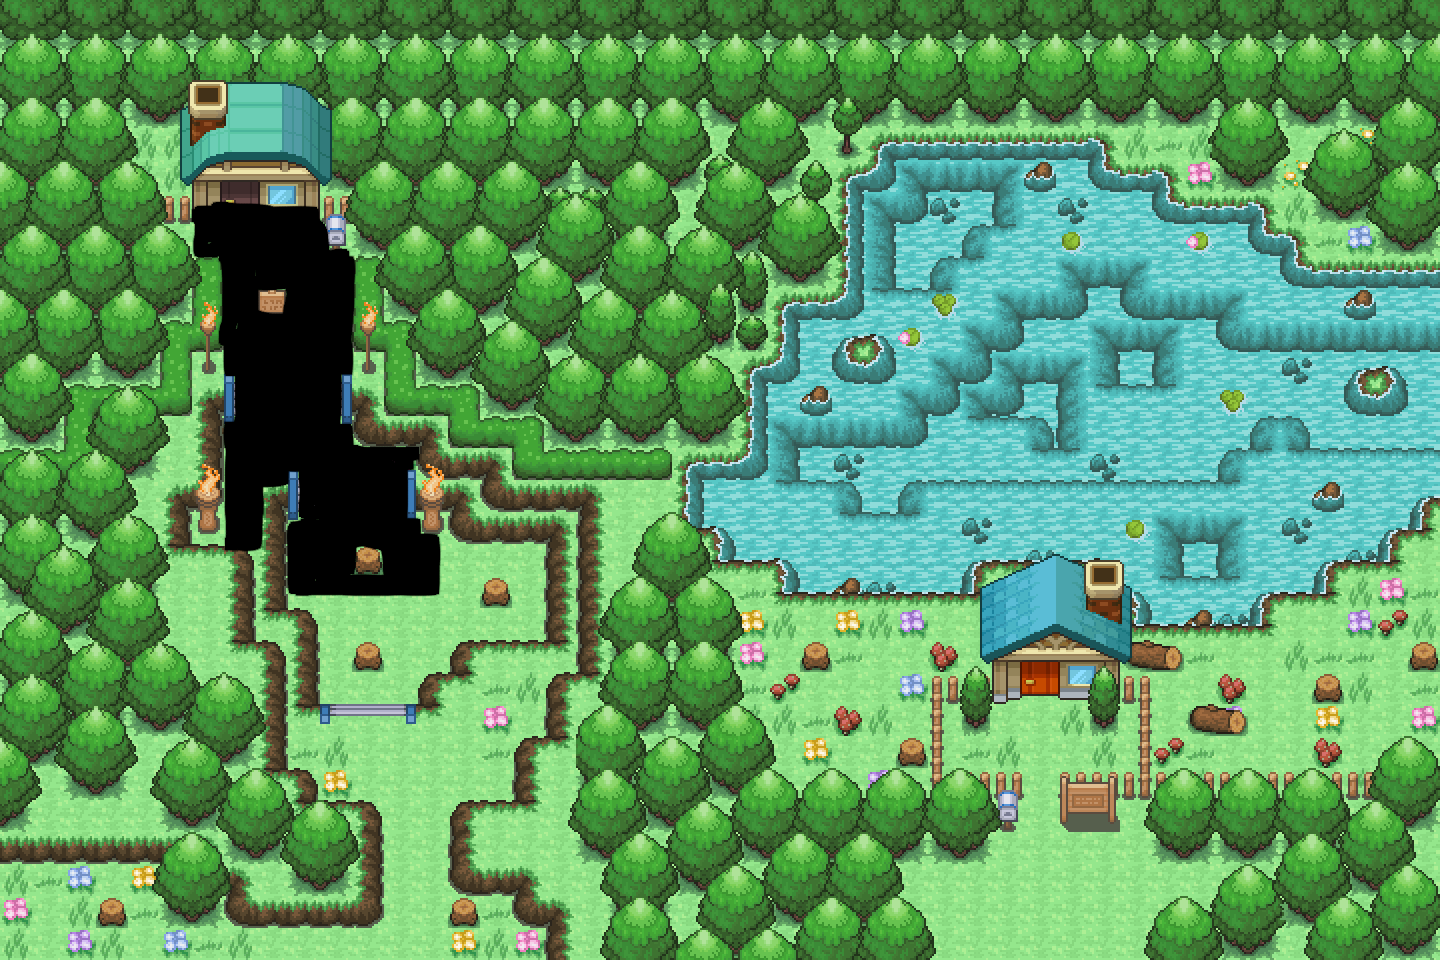
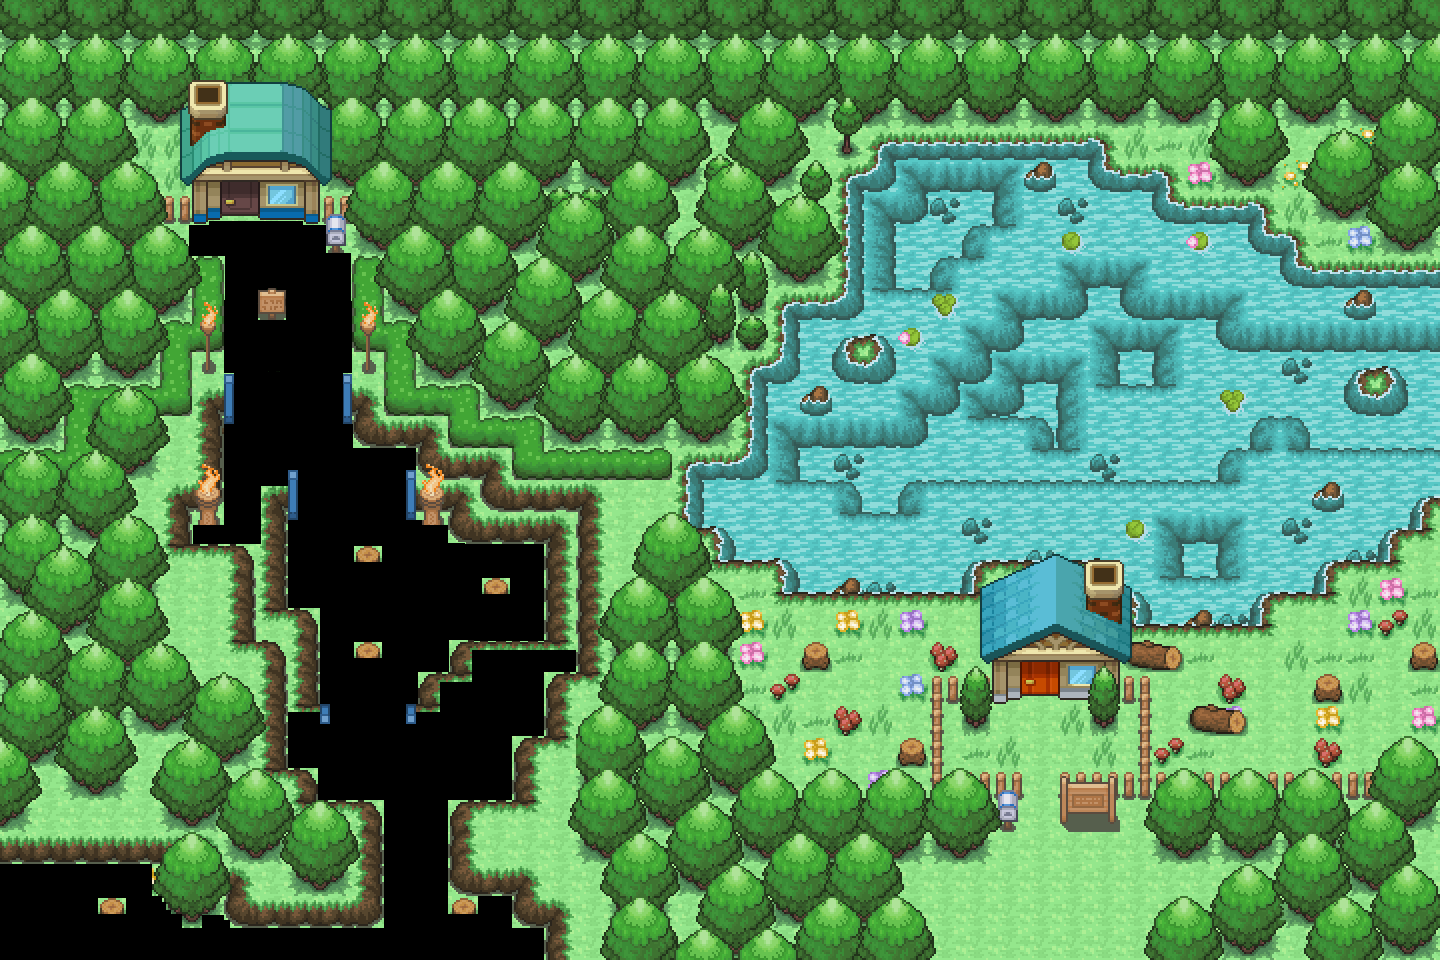
collisions

diff --git a/Code_dresseur/fusion.py b/Code_dresseur/fusion.py
@@ -37,25 +37,30 @@ class Window(QMainWindow):
         sprite = QPixmap(self.sprites_individuels[4])
         
         self.joueur = QLabel(self)
-        self.joueur.setGeometry(self.vision//2 + 5, self.vision//2 +10, self.largeur_sprite, self.hauteur_sprite)
+        self.joueur.setGeometry(self.vision//2 + 20, self.vision//2 +30, self.largeur_sprite, self.hauteur_sprite)
         self.joueur.setPixmap(sprite)
         
         self.speed = 5
             
     def carte(self):
         pixmap = QPixmap("C:/Users/dell/OneDrive/Bureau/Projet Pokémon/RATHANA-BOUCHART-KACZOR/documents/images/map_collisions.png")
-        self.fond = QLabel(self)
-        self.fond.setPixmap(pixmap)
-        self.fond.setGeometry(0, 0, pixmap.width(), pixmap.height())
+        self.fond_collisions = QLabel(self)
+        self.fond_collisions.setPixmap(pixmap)
+        self.fond_collisions.setGeometry(0, 0, pixmap.width(), pixmap.height())
+
+        pixmap = QPixmap("C:/Users/dell/OneDrive/Bureau/Projet Pokémon/RATHANA-BOUCHART-KACZOR/documents/images/map.png")
+        self.fond_visible = QLabel(self)
+        self.fond_visible.setPixmap(pixmap)
+        self.fond_visible.setGeometry(0, 0, pixmap.width(), pixmap.height())
     
     def keyPressEvent(self, event):
-        x = self.fond.x()
-        y = self.fond.y()
-        x_joueur = self.joueur.x() - self.fond.x()
-        y_joueur = self.joueur.y() - self.fond.y() 
+        x = self.fond_collisions.x()
+        y = self.fond_collisions.y()
+        x_joueur = self.joueur.x() - self.fond_collisions.x()
+        y_joueur = self.joueur.y() - self.fond_collisions.y() 
 
         if event.key() == Qt.Key_Up :
-            couleur_pixel = [self.fond.pixmap().toImage().pixelColor(x_joueur + i , y_joueur - self.speed) for i in range (0,self.largeur_sprite)]
+            couleur_pixel = [self.fond_collisions.pixmap().toImage().pixelColor(x_joueur + i , y_joueur ) for i in range (0,self.largeur_sprite)]
             for i in range(self.largeur_sprite):
                 if (couleur_pixel[i] != Qt.black) :
                     self.music_player.bruit_bump()
@@ -63,7 +68,8 @@ class Window(QMainWindow):
                     self.joueur.setPixmap(self.apparences_joueur[self.apparence_actuelle])
                     break
                 elif (couleur_pixel[i] == Qt.black) and (i == self.largeur_sprite - 1) :
-                    self.fond.move(x, y + self.speed)
+                    self.fond_collisions.move(x, y + self.speed)
+                    self.fond_visible.move(x, y + self.speed)
                     if (self.apparence_actuelle == 2) or (self.apparence_actuelle == 6) or (self.apparence_actuelle == 10) :
                         self.changer_apparence()
                     else : 
@@ -71,7 +77,7 @@ class Window(QMainWindow):
                     self.joueur.setPixmap(self.apparences_joueur[self.apparence_actuelle])
 
         if event.key() == Qt.Key_Down :
-            couleur_pixel = [self.fond.pixmap().toImage().pixelColor(x_joueur + i , y_joueur + self.hauteur_sprite + self.speed) for i in range (0,self.largeur_sprite)]
+            couleur_pixel = [self.fond_collisions.pixmap().toImage().pixelColor(x_joueur + i , y_joueur + self.hauteur_sprite + self.speed) for i in range (0,self.largeur_sprite)]
             for i in range(self.largeur_sprite):
                 if (couleur_pixel[i] != Qt.black) :
                     self.music_player.bruit_bump()
@@ -79,7 +85,8 @@ class Window(QMainWindow):
                     self.joueur.setPixmap(self.apparences_joueur[self.apparence_actuelle])
                     break
                 elif (couleur_pixel[i] == Qt.black) and (i == self.largeur_sprite - 1) :
-                    self.fond.move(x, y - self.speed)
+                    self.fond_collisions.move(x, y - self.speed)
+                    self.fond_visible.move(x, y - self.speed)
                     if (self.apparence_actuelle == 0) or (self.apparence_actuelle == 4) or (self.apparence_actuelle == 8) :
                         self.changer_apparence()
                     else : 
@@ -87,7 +94,7 @@ class Window(QMainWindow):
                     self.joueur.setPixmap(self.apparences_joueur[self.apparence_actuelle])
 
         if event.key() == Qt.Key_Left :
-            couleur_pixel = [self.fond.pixmap().toImage().pixelColor(x_joueur - self.speed, y_joueur + i) for i in range (0, self.hauteur_sprite)]
+            couleur_pixel = [self.fond_collisions.pixmap().toImage().pixelColor(x_joueur - self.speed, y_joueur + i) for i in range (0, self.hauteur_sprite)]
             for i in range(self.hauteur_sprite) :
                 if (couleur_pixel[i] != Qt.black) :
                     self.music_player.bruit_bump()
@@ -95,7 +102,8 @@ class Window(QMainWindow):
                     self.joueur.setPixmap(self.apparences_joueur[self.apparence_actuelle])
                     break
                 elif (couleur_pixel[i] == Qt.black) and (i == self.hauteur_sprite - 1):
-                    self.fond.move(x + self.speed, y)
+                    self.fond_collisions.move(x + self.speed, y)
+                    self.fond_visible.move(x + self.speed, y)
                     if (self.apparence_actuelle == 3) or (self.apparence_actuelle == 7) or (self.apparence_actuelle == 11) :
                         self.changer_apparence()
                     else : 
@@ -103,7 +111,7 @@ class Window(QMainWindow):
                     self.joueur.setPixmap(self.apparences_joueur[self.apparence_actuelle])
     
         if event.key() == Qt.Key_Right :
-            couleur_pixel = [self.fond.pixmap().toImage().pixelColor(x_joueur + self.speed + self.largeur_sprite, y_joueur + i) for i in range (0, self.hauteur_sprite)]
+            couleur_pixel = [self.fond_collisions.pixmap().toImage().pixelColor(x_joueur + self.speed + self.largeur_sprite, y_joueur + i) for i in range (0, self.hauteur_sprite)]
             for i in range(self.hauteur_sprite):
                 if (couleur_pixel[i] != Qt.black) :
                     self.music_player.bruit_bump()
@@ -111,7 +119,8 @@ class Window(QMainWindow):
                     self.joueur.setPixmap(self.apparences_joueur[self.apparence_actuelle])
                     break
                 elif (couleur_pixel[i] == Qt.black) and (i == self.hauteur_sprite - 1):
-                    self.fond.move(x - self.speed, y)
+                    self.fond_collisions.move(x - self.speed, y)
+                    self.fond_visible.move(x - self.speed, y)
                     if (self.apparence_actuelle == 1) or (self.apparence_actuelle == 5) or (self.apparence_actuelle == 9) :
                         self.changer_apparence()
                     else : 
